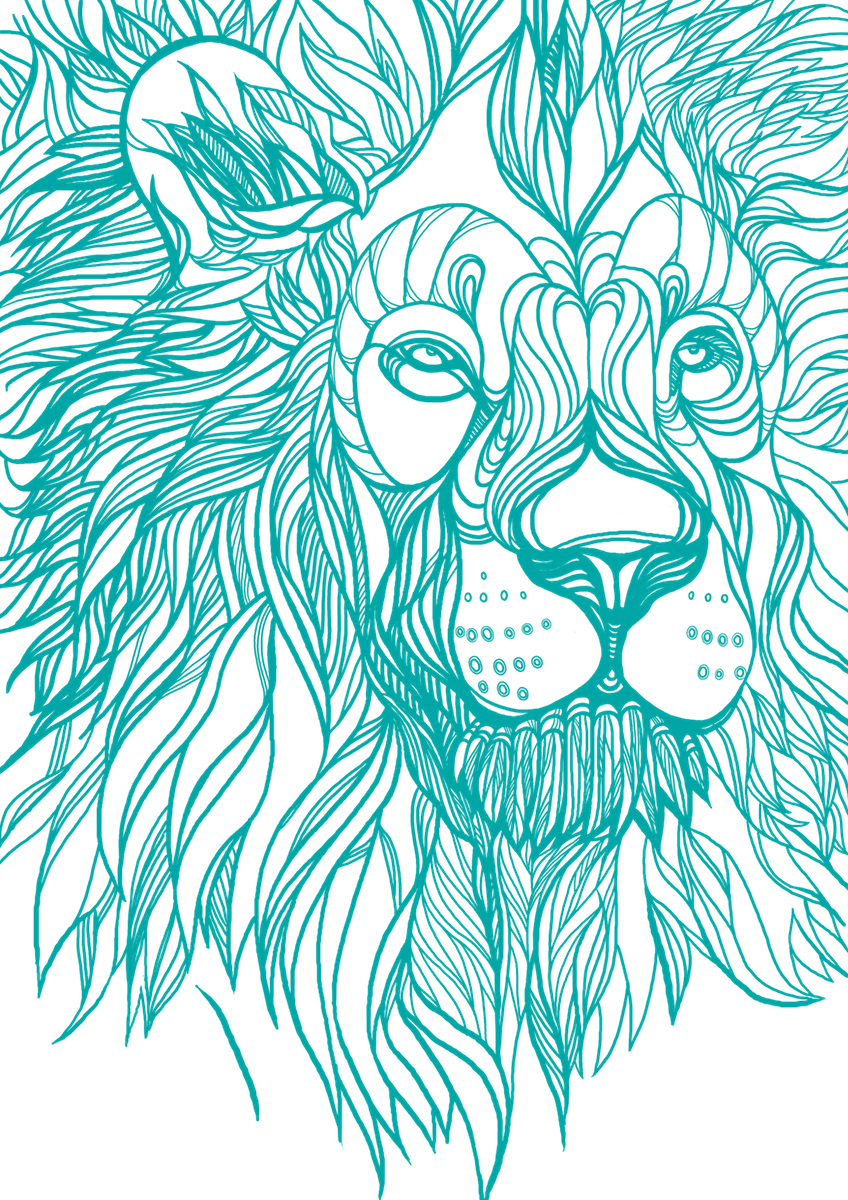
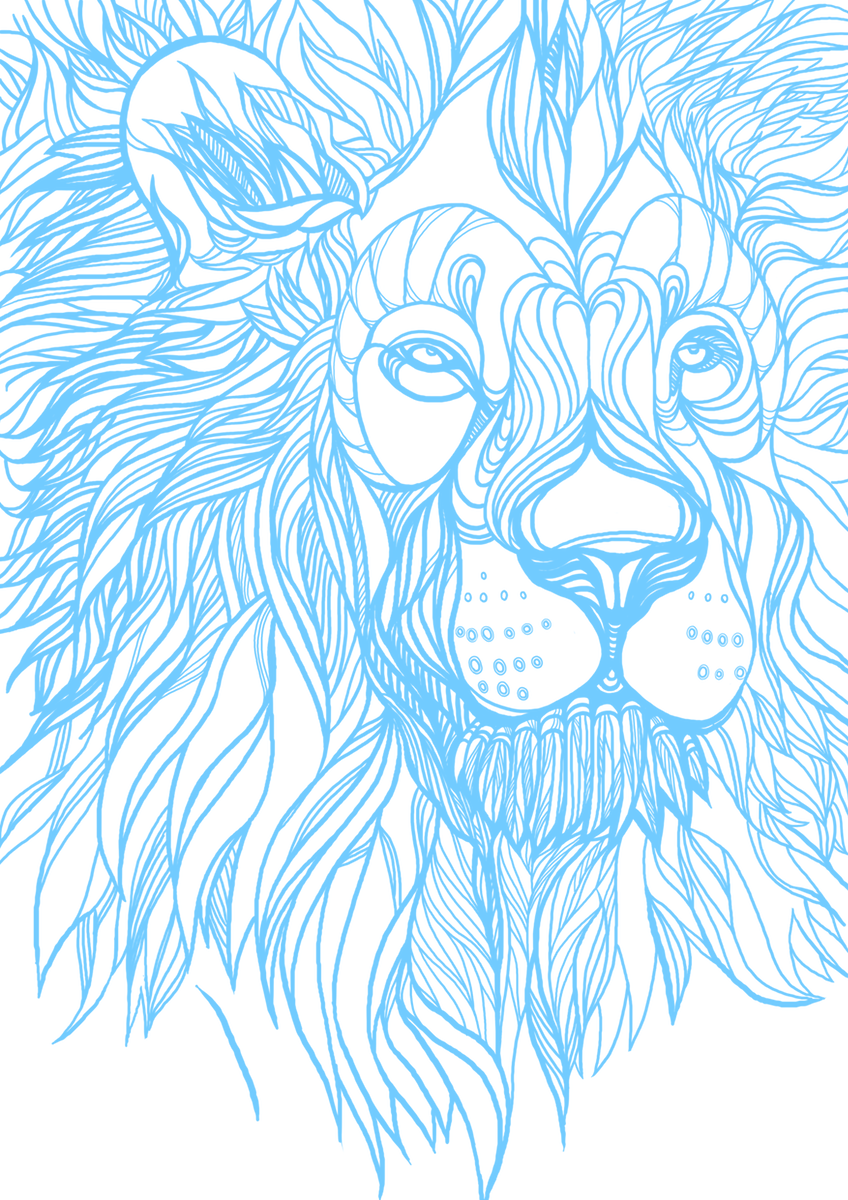
Making website just a tiny bit prettier.

diff --git a/index.html b/index.html
@@ -3,91 +3,74 @@ title: Vote for Munich to host EuRuKo in 2013
 layout: default
 ---
 
-<div class='masthead'>
-  <div class='inner'>
-    <div class='padded whitened'>
-      <h1>Munich EuRuKo 2013</h1>
-      <h2>Candidate City</h2>
-      <p>Vote for Munich to host EuRuKo 2013,<br>presented by <a href="http://twitter.com/rubyshift">@rubyshift</a> team!</p>
-      <center>
-        <a href="https://twitter.com/share" class="twitter-share-button" data-via="eurukomunich" data-size="large" data-hashtags="euruko">Tweet</a>
-        <script>!function(d,s,id){var js,fjs=d.getElementsByTagName(s)[0];if(!d.getElementById(id)){js=d.createElement(s);js.id=id;js.src="//platform.twitter.com/widgets.js";fjs.parentNode.insertBefore(js,fjs);}}(document,"script","twitter-wjs");</script>
-      </center>
-      <p>Follow us at <a href='http://twitter.com/eurukomunich'>@eurukomunich</a></p>
-      <br>
+<div class='container'>
+  <div class='jumbotron masthead'>
+    <div class='inner'>
+      <div class='padded whitened'>
+        <h1>Vote for</h1>
+        <h1 class="giant">München</h1>
+        <h1>to host EuRuKo 2013</h1>
+        <p>presented by <a href="http://twitter.com/rubyshift">@rubyshift</a> team!</p>
+      <p>
+        Follow us
+        <a href='https://twitter.com/muc_rubyshift'>
+          @muc_rubyshift
+        </a>
+      </p>
+      <br />
     </div>
   </div>
 </div>
 
-<div class='row'>
+<div class='row even'>
   <div class='span12 whitened'>
     <div class='wrapper'>
-      <h2>The City</h2>
-      <ul class="awesomeities">
-        <li>What is one of the most beautiful cities in the world? <strong>Munich!</strong></li>
-        <li>Where is the best beer in the world? <strong>Munich!</strong></li>
-        <li>Where are the best cars in the world? <strong>Munich!</strong> (after Dubai)</li>
-        <li>Mustache-friendly? <strong>Munich!</strong></li>
-      </ul>
       <div class="photos">
         <img src="/assets/images/muc11.jpg" style="width:220px;">
         <img src="/assets/images/muc22.jpg" style="height:204px;">
         <img src="/assets/images/muc33.jpg" style="height:204px;">
         <img src="/assets/images/muc44.jpg" style="height:204px;">
       </div>
-      <p>Marienplatz is a central square in the city center. It has been the main square since 1158 where in the Middle Ages markets and tournaments were held. Today the pedestrian zone between Karlsplatz and Marienplatz is a crowded area with numerous shops and restaurants to visit.</p>
-      <p><a href="http://www.muenchen.de/int/en/">Read more...</a></p>
     </div>
   </div>
 </div>
 
-<div class='row'>
+<br />
+<br />
+
+<div class='row team'>
   <div class='span12 whitened'>
     <div class='wrapper'>
-      <h2>The Team</h2>
-      <p>
-        It's been three years since our team started to organize a friendly and non-profit <a href="http://rubyshift.org">RubyShift</a> conference in Kiev, Ukraine. We will bring Ukrainian experience to the next EuRuKo.
-      </p>
+      <center><h1>The Team</h1>
+      <br/>
       <div class="row team">
-        <div class="span2 teammate">
+        <div class="teammate">
           <img src="/assets/images/team-ifesdjeen.jpg"><br>
           <a href='http://twitter.com/ifesdjeen'>@ifesdjeen</a>
         </div>
-        <div class="span2 teammate">
+        <div class="teammate">
           <img src="/assets/images/team-entropyfw.jpg"><br>
           <a href='http://twitter.com/entropyfw'>@entropyfw</a>
         </div>
-        <div class="span2 teammate">
+        <div class="teammate">
           <img src="/assets/images/team-_beai.jpg"><br>
           <a href="http://twitter.com/_beai">@_beai</a>
         </div>
-        <div class="span2 teammate">
+        <div class="teammate">
+          <img src="/assets/images/team-rk.jpg"/><br/>
+          <a href='http://twitter.com/kuzrob'>@kuzrob</a>
+        </div>
+        <div class="teammate">
           <img src="/assets/images/team-znatafka.jpg"><br>
           <a href="http://twitter.com/znatafka">@znatafka</a>
         </div>
-        <div class="span2 teammate">
+        <div class="teammate">
           <img src="/assets/images/team-mariya_o5.jpg"><br>
           <a href="http://twitter.com/mariya_o5">@mariya_o5</a>
         </div>
-      </div>
+      </center></div>
     </div>
   </div>
 </div>
-
-<br>
-
-<div class='row'>
-  <div class='span12 whitened'>
-    <div class='wrapper'>
-      <h2>Vote</h2>
-      <p>So vote for Munich to host EuRuKo 2013 and see you in Amsterdam!</p>
-      <center>
-        <a href="https://twitter.com/share" class="twitter-share-button" data-via="eurukomunich" data-size="large" data-count="none" data-hashtags="euruko">Tweet</a>
-        <script>!function(d,s,id){var js,fjs=d.getElementsByTagName(s)[0];if(!d.getElementById(id)){js=d.createElement(s);js.id=id;js.src="//platform.twitter.com/widgets.js";fjs.parentNode.insertBefore(js,fjs);}}(document,"script","twitter-wjs");</script>
-      </center>
-    </div>
-  </div>
-</div>
-
-<br>
-<br> <!-- This is dirty, no excuses -->
+<br/>
+<br/>

diff --git a/assets/stylesheets/screen.css b/assets/stylesheets/screen.css
@@ -1,3 +1,6 @@
+/* Mixins.scss
+ * Snippets of reusable CSS to develop faster and keep code readable
+ * ----------------------------------------------------------------- */
 .clearfix {
     zoom: 1;
 }
@@ -31,32 +34,170 @@
     clear: both;
 }
 
-.masthead { padding-top: 36px; margin-bottom: 36px; }
-.masthead h1, .masthead h2, .masthead p { text-align: center; }
-.masthead h1, .masthead h2 { text-transform:uppercase; line-height: 1.5em; }
-.masthead h1 { margin-bottom: 18px; font-size: 72px; font-weight: 500; }
-.masthead h2 { font-size: 32px; margin-top: -1.1em; font-weight:300; }
-.masthead p { font-size: 24px; line-height: 1.231em; margin:1em 0; }
+article pre {
+    font-size: 13px !important;
+}
 
-.row h2 { margin-bottom:0.5em; }
-.row p { font-size: 16px; line-height: 1.3em; }
-.row li { font-size: 16px; line-height: 1.5em; }
+.toc {
+    background: white;
+    margin-left: 20px;
+    max-width: 500px;
+    padding: 20px;
+    padding-right: 30px;
+    padding: 2em;
+    border: 1px solid #dddddd;
+    float: right;
+    -webkit-box-shadow: -2px 2px 6px #bbbbbb;
+    -moz-box-shadow: -2px 2px 6px #bbbbbb;
+    box-shadow: -2px 2px 6px #bbbbbb;
+}
 
-.whitened { background: rgba(255, 255, 255, 0.95); }
-.whitened .wrapper { padding: 10px; }
-.whitened .padded { padding: 20px; }
+.container > section {
+    margin-top: 60px;
+}
 
-.team { text-align:center; margin-left:40px; }
-.team img { margin-bottom:10px; }
+body.landing {
+    background: white;
+}
 
-.awesomeities, .awesomeities li { list-style:none; margin: 0; padding:0; }
+body {
+    background: rgba(253, 246, 227, 0.6);
+}
 
-.photos { margin:10px 0; }
-.photos img { margin-right:10px; }
+strong {
+    color: #cb4b16;
+}
+
+code {
+    white-space: pre;
+    display: block;
+    padding: 10px;
+    color: gray;
+}
+
+.highlight {
+    line-height: 25px;
+    padding: 3px 4px;
+    background-color: #f7f7f9;
+    border: 1px solid #e1e1e8;
+}
+
+.jumbotron {
+    position: relative;
+}
+
+.jumbotron h1 {
+    margin-bottom: 9px;
+    font-size: 81px;
+    letter-spacing: -1px;
+    line-height: 1;
+}
+
+.masthead {
+    padding-top: 36px;
+    margin-bottom: 72px;
+}
+
+.masthead h1, .masthead p {
+    text-align: center;
+}
+
+.masthead h1 {
+    margin-bottom: 18px;
+}
+
+.masthead p {
+    margin-left: 5%;
+    margin-right: 5%;
+    font-size: 30px;
+    line-height: 36px;
+}
+
+footer {
+    margin-top: 45px;
+    padding: 35px 0 36px;
+    border-top: 1px solid #e5e5e5;
+}
+
+.marketing h2 {
+    margin: 36px 0 27px;
+    text-align: center;
+}
+
+.whitened {
+    /* background: rgba(255, 255, 255, 0.8); */
+    background: rgba(113, 203, 255, 0.9);
+    color: white;
+    text-shadow: #4FB2E4 0px -1px 0px;
+    -webkit-box-shadow: -2px 2px 6px #bbbbbb;
+    -moz-box-shadow: -2px 2px 6px #bbbbbb;
+    box-shadow: -2px 2px 30px #bbbbbb;
+}
+
+.whitened .wrapper {
+    padding: 10px;
+}
+
+.whitened .padded {
+    padding: 20px;
+}
+
+.clear {
+    clear: both;
+}
+
+.icon {
+    float: left;
+    margin: 7px 10px 0 0;
+    opacity: 0.8;
+}
+
+.row.even .span4 {
+    height: 220px;
+}
 
 body {
     background: url('/assets/images/bg.png') !important;
     background-repeat: no-repeat !important;
     background-attachment: fixed !important;
     background-position: top right !important;
+}
+
+
+.jumbotron h1 {
+    font-family: "Signika Negative", "Helvetica Neue", Helvetica, Arial, sans-serif;
+}
+.jumbotron p {
+    font-family: "Signika Negative", "Helvetica Neue", Helvetica, Arial, sans-serif;
+}
+
+h2 {
+    font-family: "Signika Negative", "Helvetica Neue", Helvetica, Arial, sans-serif;
+}
+
+h1.giant {
+    font-size: 10em;
+}
+
+.photos {
+    margin: 10px 0;
+}
+
+.photos img:last-child {
+    margin-right: 0px;
+}
+.photos img {
+    margin-right: 13px;
+}
+
+.row.team {
+    text-align: center;
+}
+.teammate {
+    float: left;
+    width: 135px;
+}
+
+.small {
+    font-size: 1em !important;
 }
